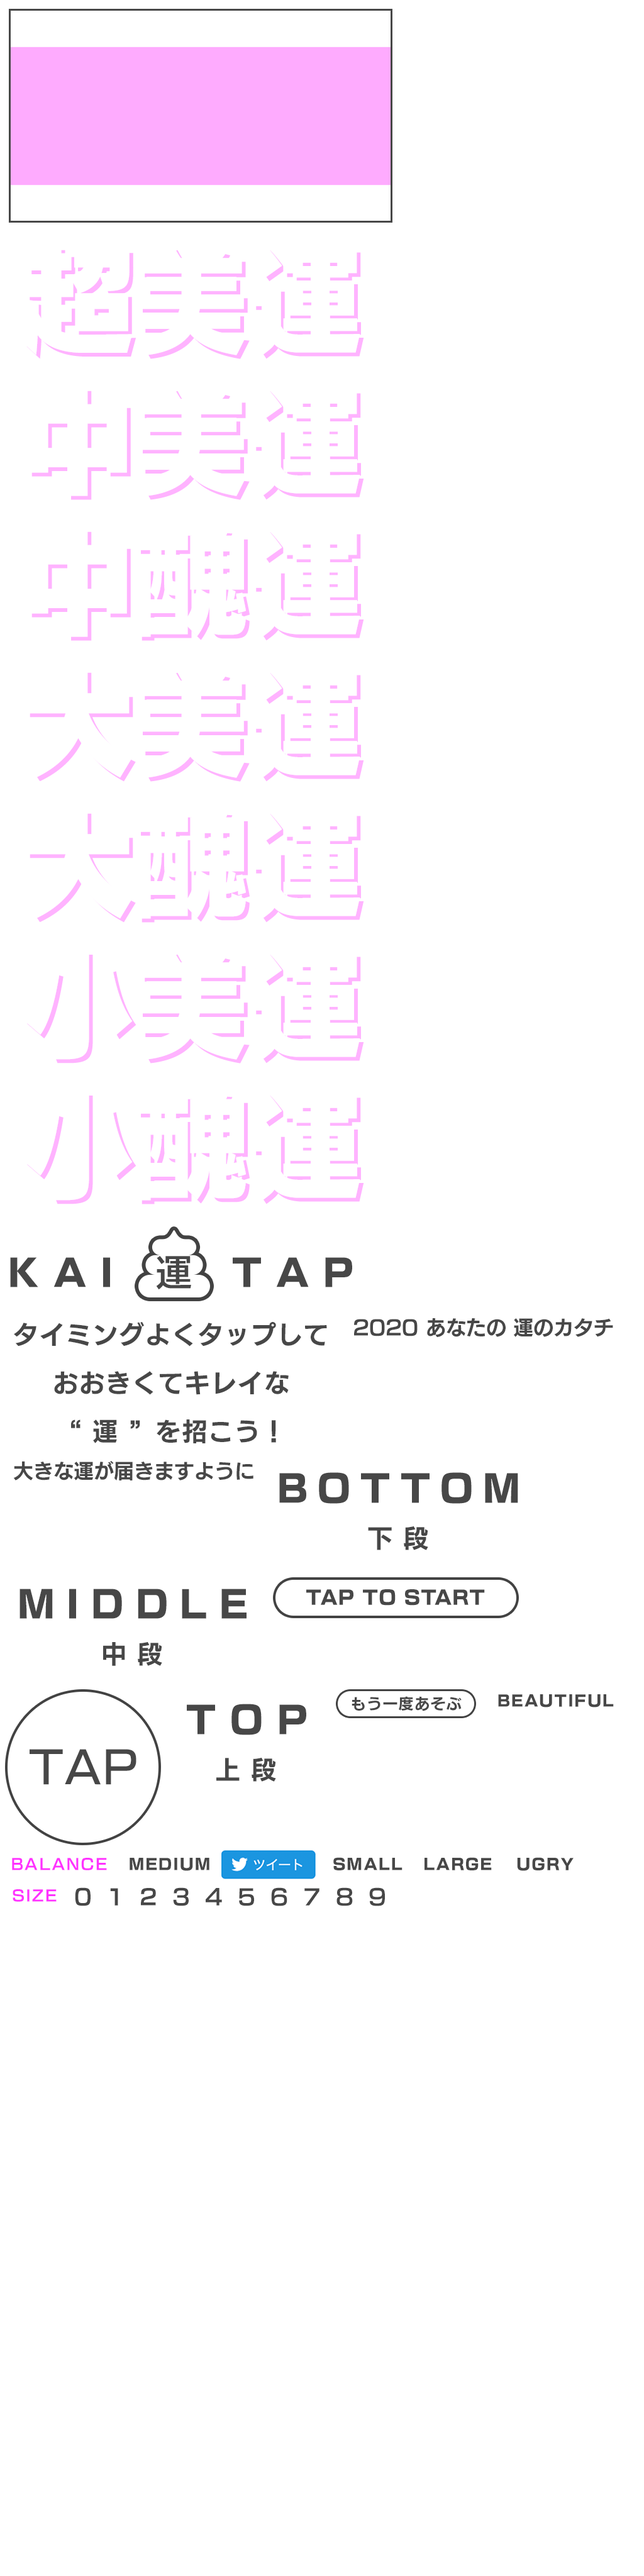
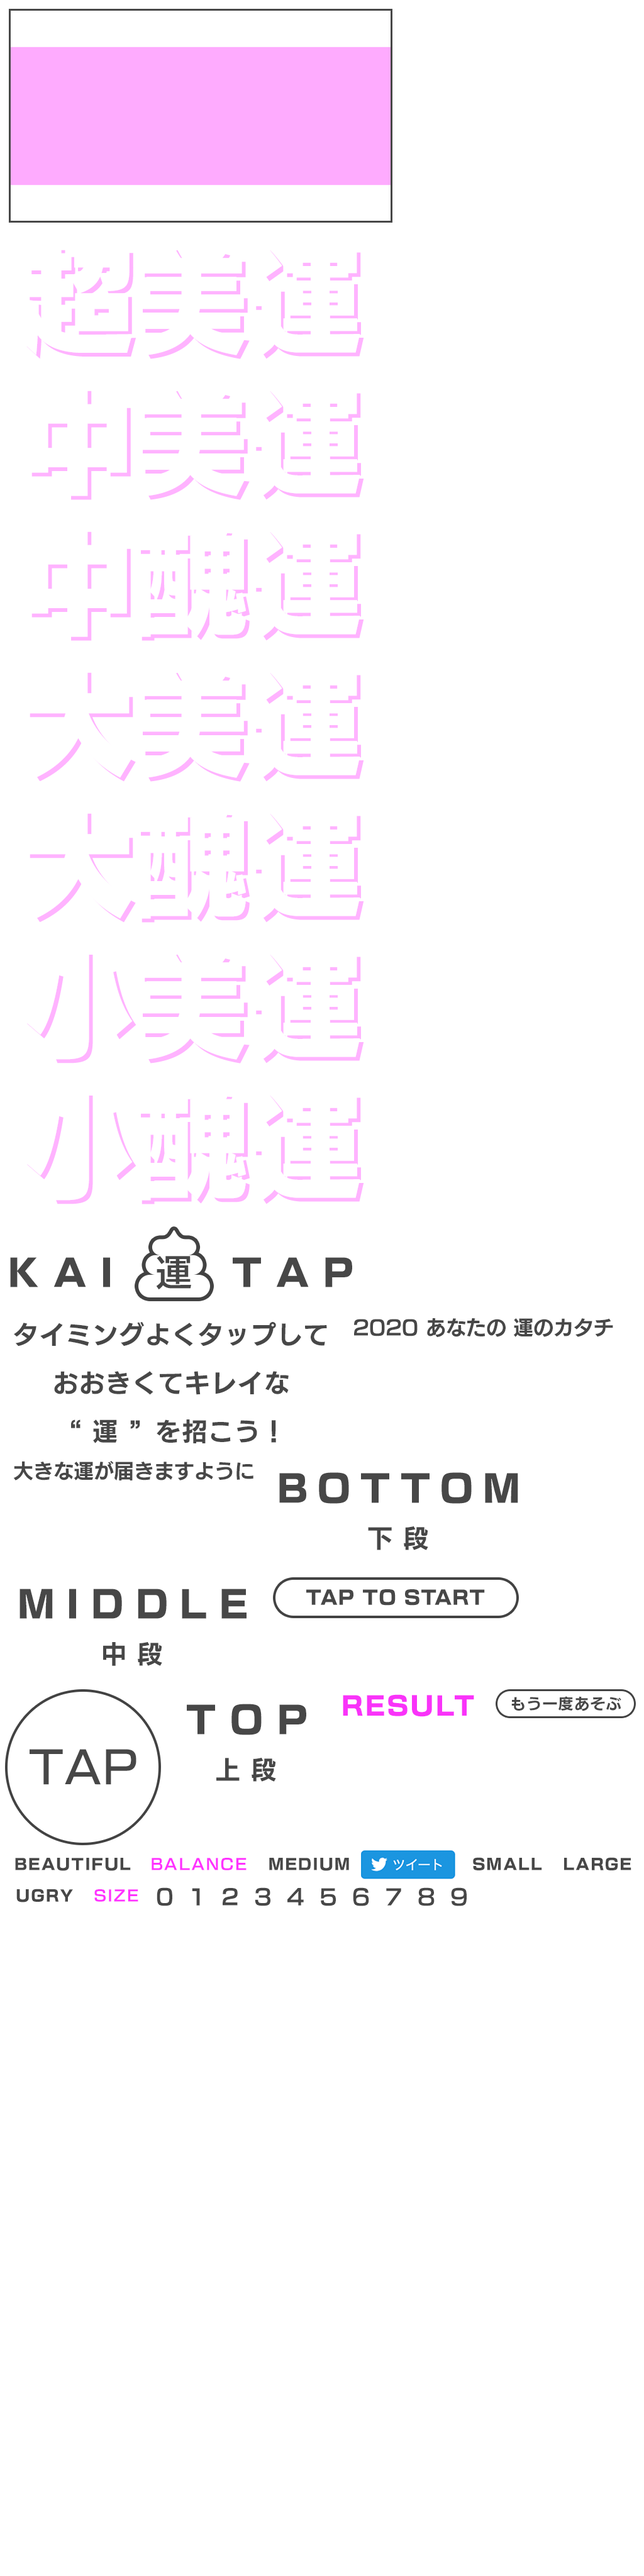
更新

Changed region(s): [[0.0, 0.7188, 0.7812, 0.75], [0.5312, 0.6562, 0.75, 0.6875], [0.7812, 0.6562, 0.9688, 0.6875]]

diff --git a/ExpGames/onenga2020/index.html b/ExpGames/onenga2020/index.html
@@ -3045,136 +3045,143 @@ void main(){
 					"y": 2682
 				},
 				{
+					"name": "result",
+					"width": 250,
+					"height": 58,
+					"x": 524,
+					"y": 2682
+				},
+				{
 					"name": "btm_retry",
 					"width": 244,
 					"height": 54,
-					"x": 524,
+					"x": 778,
 					"y": 2682
 				},
 				{
 					"name": "result_balance_beautiful",
 					"width": 218,
 					"height": 42,
-					"x": 772,
-					"y": 2682
+					"x": 4,
+					"y": 2942
 				},
 				{
 					"name": "result_balance",
 					"width": 180,
 					"height": 42,
-					"x": 4,
+					"x": 226,
 					"y": 2942
 				},
 				{
 					"name": "result_size_medium",
 					"width": 160,
 					"height": 42,
-					"x": 188,
+					"x": 410,
 					"y": 2942
 				},
 				{
 					"name": "btm_twitter",
 					"width": 150,
 					"height": 46,
-					"x": 352,
+					"x": 574,
 					"y": 2942
 				},
 				{
 					"name": "result_size_small",
 					"width": 148,
 					"height": 42,
-					"x": 506,
+					"x": 728,
 					"y": 2942
 				},
 				{
 					"name": "result_size_large",
 					"width": 138,
 					"height": 42,
-					"x": 658,
+					"x": 880,
 					"y": 2942
 				},
 				{
 					"name": "result_balance_ugly",
 					"width": 126,
 					"height": 42,
-					"x": 800,
-					"y": 2942
+					"x": 4,
+					"y": 2992
 				},
 				{
 					"name": "result_size",
 					"width": 100,
 					"height": 42,
-					"x": 4,
+					"x": 134,
 					"y": 2992
 				},
 				{
 					"name": "num_0",
 					"width": 48,
 					"height": 48,
-					"x": 108,
+					"x": 238,
 					"y": 2992
 				},
 				{
 					"name": "num_1",
 					"width": 48,
 					"height": 48,
-					"x": 160,
+					"x": 290,
 					"y": 2992
 				},
 				{
 					"name": "num_2",
 					"width": 48,
 					"height": 48,
-					"x": 212,
+					"x": 342,
 					"y": 2992
 				},
 				{
 					"name": "num_3",
 					"width": 48,
 					"height": 48,
-					"x": 264,
+					"x": 394,
 					"y": 2992
 				},
 				{
 					"name": "num_4",
 					"width": 48,
 					"height": 48,
-					"x": 316,
+					"x": 446,
 					"y": 2992
 				},
 				{
 					"name": "num_5",
 					"width": 48,
 					"height": 48,
-					"x": 368,
+					"x": 498,
 					"y": 2992
 				},
 				{
 					"name": "num_6",
 					"width": 48,
 					"height": 48,
-					"x": 420,
+					"x": 550,
 					"y": 2992
 				},
 				{
 					"name": "num_7",
 					"width": 48,
 					"height": 48,
-					"x": 472,
+					"x": 602,
 					"y": 2992
 				},
 				{
 					"name": "num_8",
 					"width": 48,
 					"height": 48,
-					"x": 524,
+					"x": 654,
 					"y": 2992
 				},
 				{
 					"name": "num_9",
 					"width": 48,
 					"height": 48,
-					"x": 576,
+					"x": 706,
 					"y": 2992
 				}
 			],
@@ -3317,7 +3324,7 @@ void main(){
 			{
 				"name": "title",
 				"pivot": [0.5, 0.5],
-				"anchor": [0.5, 0.1],
+				"anchor": [0.5, 0.07],
 				"scale": [1, 1],
 				"position": [0, 0],
 				"texcoordOffset": [0, 0],
@@ -3425,7 +3432,7 @@ void main(){
 			{
 				"name": "result",
 				"pivot": [0.5, 0.5],
-				"anchor": [0.7, 0.5],
+				"anchor": [0.5, 0.15],
 				"scale": [1, 1],
 				"position": [0, 0],
 				"texcoordOffset": [0, 0],
@@ -3574,7 +3581,7 @@ void main(){
 				this.scales[this.scaleIndex] = s;
 			}
 
-			for (var i = 0; i < this.fixFlashes.length; ++i){
+			for (var i = 0; i < this.fixFlashes.length; ++i) {
 				this.fixFlashes[i].update(deltaTime);
 			}
 		};
@@ -3665,13 +3672,13 @@ void main(){
 			}
 			matrixStack.pop();
 		};
-		UnkoNenga.Unko.prototype.flash = function(index){
+		UnkoNenga.Unko.prototype.flash = function (index) {
 			var data = UnkoNenga.unkoScaleFixAnimation.emission;
 			this.fixFlashes[index].setData(data);
 		};
-		UnkoNenga.Unko.prototype.flashFinal = function(){
+		UnkoNenga.Unko.prototype.flashFinal = function () {
 			var data = UnkoNenga.unkoScaleFixAnimation.emissionFinal;
-			for (var i = 0; i < this.fixFlashes.length; ++i){
+			for (var i = 0; i < this.fixFlashes.length; ++i) {
 				this.fixFlashes[i].setData(data);
 			}
 		};
@@ -3943,9 +3950,9 @@ void main(){
 				},
 				update: function () {
 					if (state.justDown === true) {
-						if (isHitUi('btm_retry')){
+						if (isHitUi('btm_retry')) {
 							changeScene(titleScene);
-						}else if (isHitUi('btm_twitter')){
+						} else if (isHitUi('btm_twitter')) {
 							showTweetWindow();
 						}
 					}
@@ -3972,6 +3979,7 @@ void main(){
 					addSprite('result_balance');
 					addSprite('btm_retry');
 					addSprite('btm_twitter');
+					addSprite('result');
 					var size = this.sizeScore;
 					var balance = this.balanceScore;
 					if (size === 0) {
@@ -4008,23 +4016,23 @@ void main(){
 					state.spriteRenderer.draw(state.gpu, camera2dMatrix);
 				}
 			};
-			var isHitUi = function(name){
+			var isHitUi = function (name) {
 				var transform = uiTransforms[name];
-				if (!transform){
+				if (!transform) {
 					return false;
 				}
 				var p = toLogicalScreenPosition(state.cursorPos);
 				var min = new Kayac.V2.createXy(-10000, -10000);
 				var max = new Kayac.V2.createXy(10000, 10000);
 				// TODO: min,maxにUI範囲を入れる
-				if ((min.x <= p.x) && (p.x <= max.x) && (min.y <= p.y) && (p.y <= max.y)){
+				if ((min.x <= p.x) && (p.x <= max.x) && (min.y <= p.y) && (p.y <= max.y)) {
 					return true;
-				}else {
+				} else {
 					return false;
 				}
 			}
 
-			var toLogicalScreenPosition = function(physicalScreenPosition){
+			var toLogicalScreenPosition = function (physicalScreenPosition) {
 				// TODO:
 				return Kayac.V2.createXy(0, 0);
 			};
